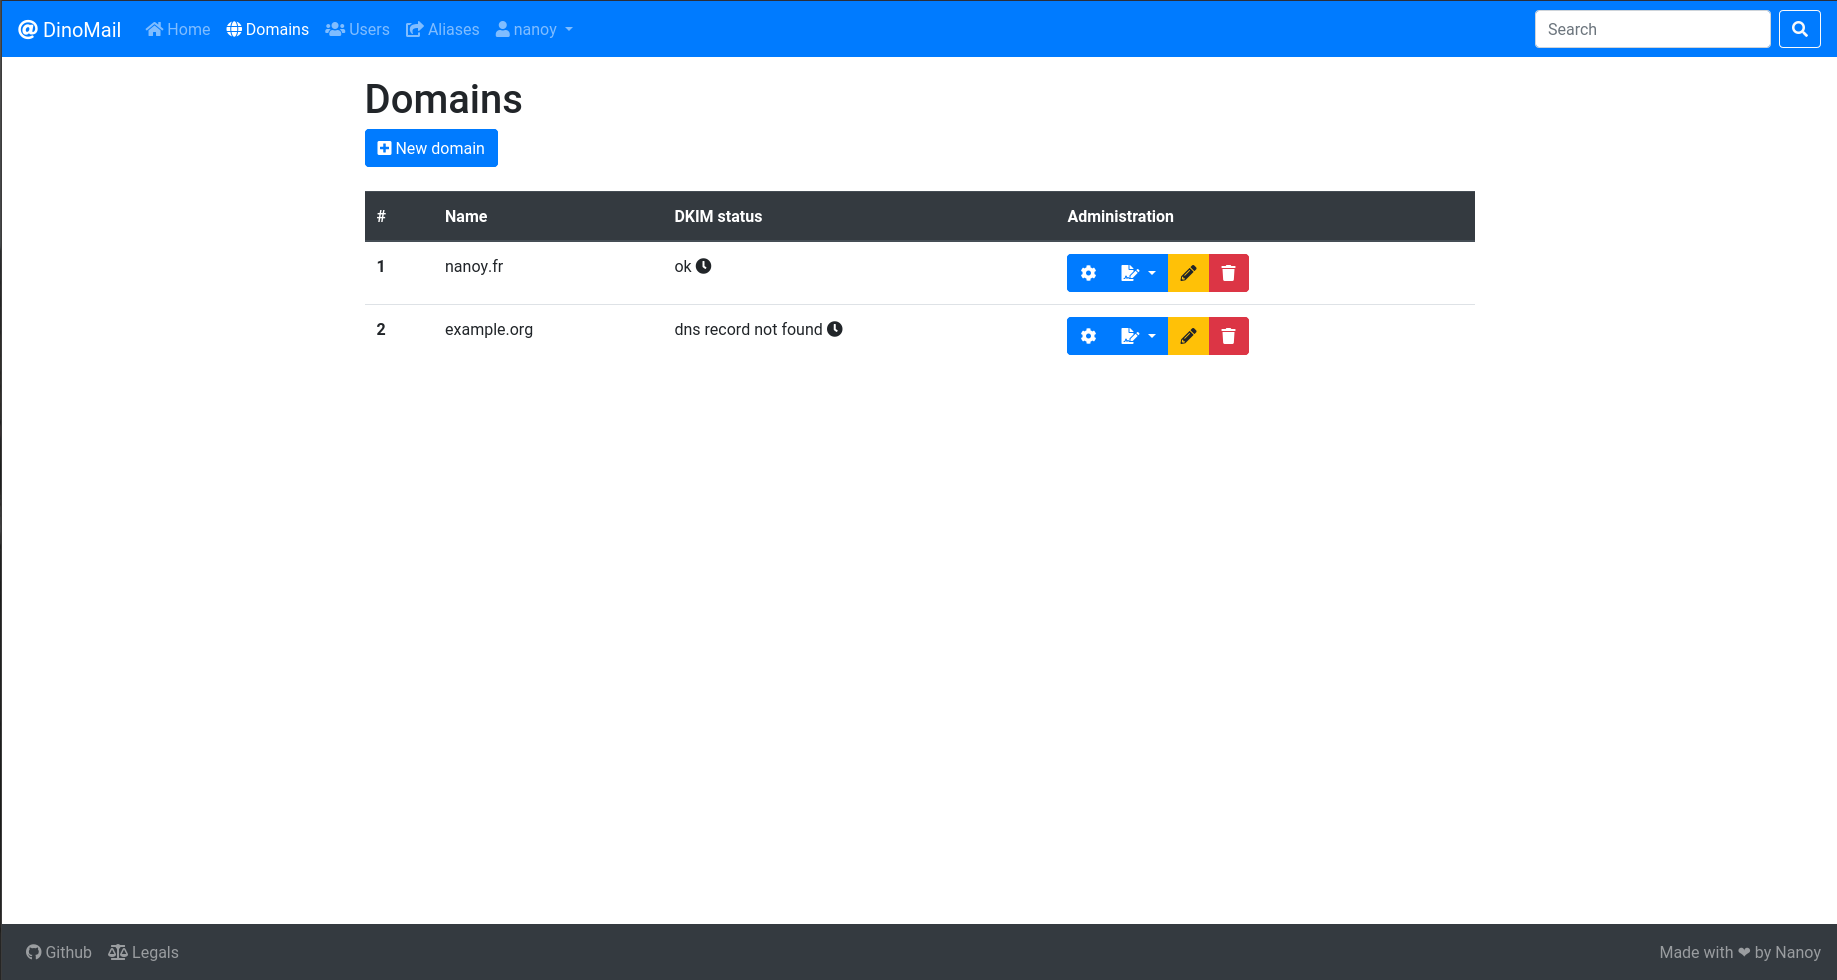
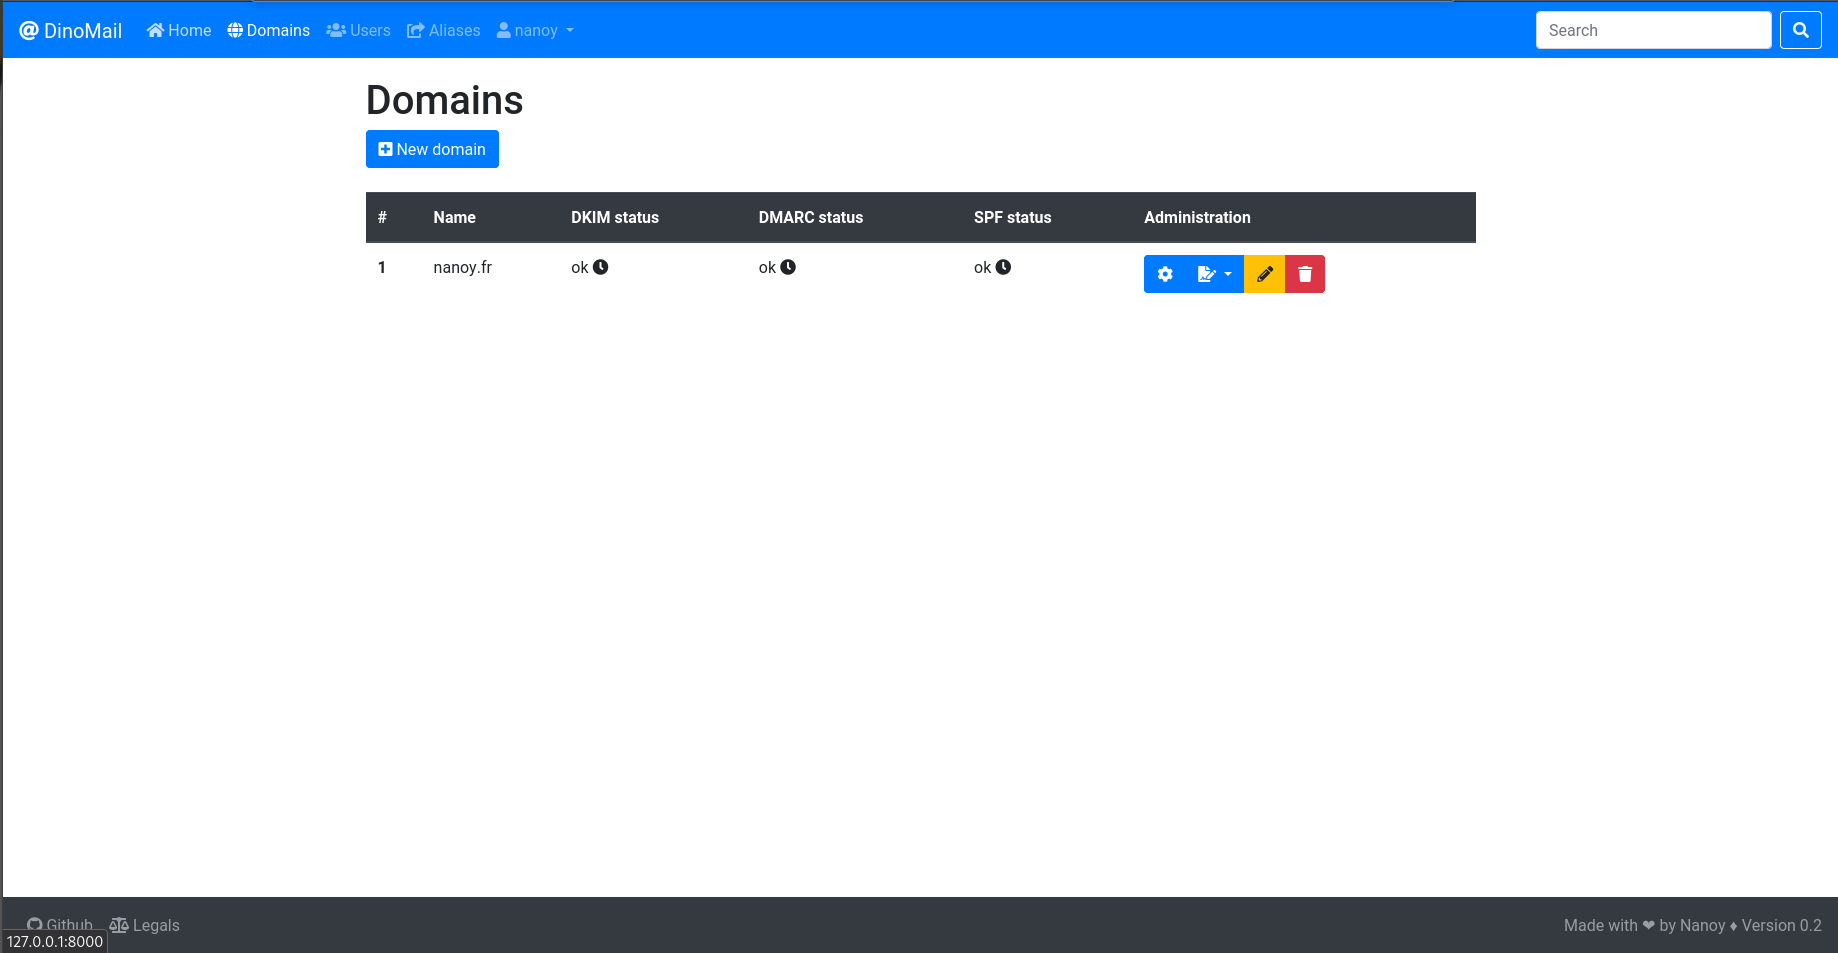
Version 0.2

diff --git a/src/core/templates/footer.html b/src/core/templates/footer.html
@@ -13,7 +13,7 @@
             </li>
         </ul>
         <span class="navbar-text">
-            {% trans "Made with ❤ by Nanoy ♦ Version 0.1.1" %}
+            {% trans "Made with ❤ by Nanoy ♦ Version 0.2" %}
         </span>
     </div>
 </nav>

diff --git a/docs/source/conf.py b/docs/source/conf.py
@@ -22,7 +22,7 @@ copyright = "2020, Yoann Pietri"
 author = "Yoann Pietri"
 
 # The full version, including alpha/beta/rc tags
-release = "0.1"
+release = "0.2"
 
 
 # -- General configuration ---------------------------------------------------

diff --git a/docs/source/linking.rst b/docs/source/linking.rst
@@ -30,7 +30,7 @@ Next we are going to populate the virtual domains :
     password = secret
     hosts = 127.0.0.1
     dbname = dinomail
-    query = SELECT 1 FROM dinomail_virtualdomain WHERE name='%s'
+    query = SELECT 1 FROM core_virtualdomain WHERE name='%s'
 
 .. note:: We select 1 because we must have a map with the key being the domain and the value is meaningless.
 
@@ -43,7 +43,7 @@ We do the same for virtual users and virtual aliases :
     password = secret
     hosts = 127.0.0.1
     dbname = dinomail
-    query = SELECT 1 FROM dinomail_virtualuser WHERE email='%s'
+    query = SELECT 1 FROM core_virtualuser WHERE email='%s'
 
 and 
 
@@ -54,7 +54,7 @@ and
     password = secret
     hosts = 127.0.0.1
     dbname = dinomail
-    query = SELECT destination FROM dinomail_virtualalias WHERE source='%s'
+    query = SELECT destination FROM core_virtualalias WHERE source='%s'
 
 
 We can also add an email2email.cf file which is a map where the key is an email and the value is the same email. It can be useful for wildcard matches for example :
@@ -66,7 +66,7 @@ We can also add an email2email.cf file which is a map where the key is an email 
     password = secret
     hosts = 127.0.0.1
     dbname = dinomail
-    query = SELECT email FROM dinomail_virtualuser WHERE email='%s'
+    query = SELECT email FROM core_virtualuser WHERE email='%s'
 
 Test the configuration files
 ****************************
@@ -116,6 +116,6 @@ Then we edit ``/etc/dovecot/dovecot-sql.conf.ext`` and set
     concat('*:bytes=', quota) AS quota_rule, \
     '/var/vmail/%d/%n' AS home, \
     5000 AS uid, 5000 AS gid \
-    FROM dinomail_virtualuser WHERE email='%u'
-    password_query = SELECT password FROM dinomail_virtualuser WHERE email='%u'
-    iterate_query = SELECT email AS user FROM dinomail_virtualuser
+    FROM core_virtualuser WHERE email='%u'
+    password_query = SELECT password FROM core_virtualuser WHERE email='%u'
+    iterate_query = SELECT email AS user FROM core_virtualuser

diff --git a/docs/source/api.rst b/docs/source/api.rst
@@ -15,6 +15,8 @@ For the most part of the API, you will need to authenticate with an ApiKey : ``A
 
 To get an api key, you can query the url ``/api/apikey/`` with a basic authentication : ``Authorization: Basic username:password``.
 
+.. note:: If you’re using Apache & mod_wsgi, you will need to enable WSGIPassAuthorization On.
+
 Virtual domains, users and aliases urls
 #######################################
 
@@ -29,10 +31,12 @@ You can then, for each of those basis urls, query
  * ``/`` (``GET``) : list of all objects.
  * ``/`` (``POST``) : add an object.
  * ``/<pk>/`` (``GET``) : get detail for object with primary key ``<pk>``.
- * ``/<pk>/`` (``POST``) : update all fields of object with primary key ``<pk>``.
+ * ``/<pk>/`` (``PUT``) : update all fields of object with primary key ``<pk>``.
  * ``/<pk>/`` (``PATCH``) : update specified fields of object with primayr key ``<pk>``.
  * ``/<pk>/`` (``DELETE``) : delete object with primary key ``<pk>``.
 
-.. note:: A ``POST`` on ``/api/virtualuser/<pk>`` will not reset the password.
+.. note:: A ``POST`` on ``/api/virtualuser/<pk>/`` will not reset the password.
 
-There is also a special URL to change a user's password : ``/api/changeuserpassword/<pk>``, (``POST`` or ``PATCH`` are available). You have to transmit the plain text password.
+There is also a special URL to change a user's password : ``/api/changeuserpassword/<pk>/``, (``POST`` or ``PATCH`` are available). You have to transmit the plain text password.
+
+You can take a look at https://django-tastypie.readthedocs.io/en/latest/interacting.html/.

diff --git a/CHANGELOG.md b/CHANGELOG.md
@@ -1,5 +1,40 @@
 # CHANGELOG
 
+## Version 0.2
+### Context
+**Codename: Dilophosaurus**
+
+Herrerasaurus were looking like Dilophosaurus in Jurrasic Park.
+
+### Changes
+
+* Add password schemes : 
+    * PLAIN
+    * PLAIN-TRUNC
+    * CLEARTEXT
+    * CLEAR
+    * SHA
+    * SSHA 
+    * SHA256
+    * SSHA256
+    * SHA512
+    * SSHA512
+    * PLAIN-MD5
+    * LDAP-MD5
+    * CRYPT
+    * DES-CRYPT
+    * MD5-CRYPT
+    * SHA256-CRYPT
+    * SHA512-CRYPT
+* Add DMARC and SPF support
+* Add unit tests
+* Add CI and coverage
+* Documentation
+* Minor fixes
+
+### Update information
+You should apply migrations : `python3 manage.py migrate` and recompile translations messages : `django-admin compilemessages`.
+
 ## Version 0.1.1
 ### Context
 **Codename : Herrerasaurus**

diff --git a/docs/source/index.rst b/docs/source/index.rst
@@ -8,7 +8,7 @@ Welcome to DinoMail's documentation!
 
 DinoMail is a web interface that helps you managing your mail server.
 
-This is documention for DinoMail version 0.1 (codename Herrerasaurus).
+This is documention for DinoMail version 0.2 (codename Dilophosaurus).
 
 .. toctree::
    :maxdepth: 2
